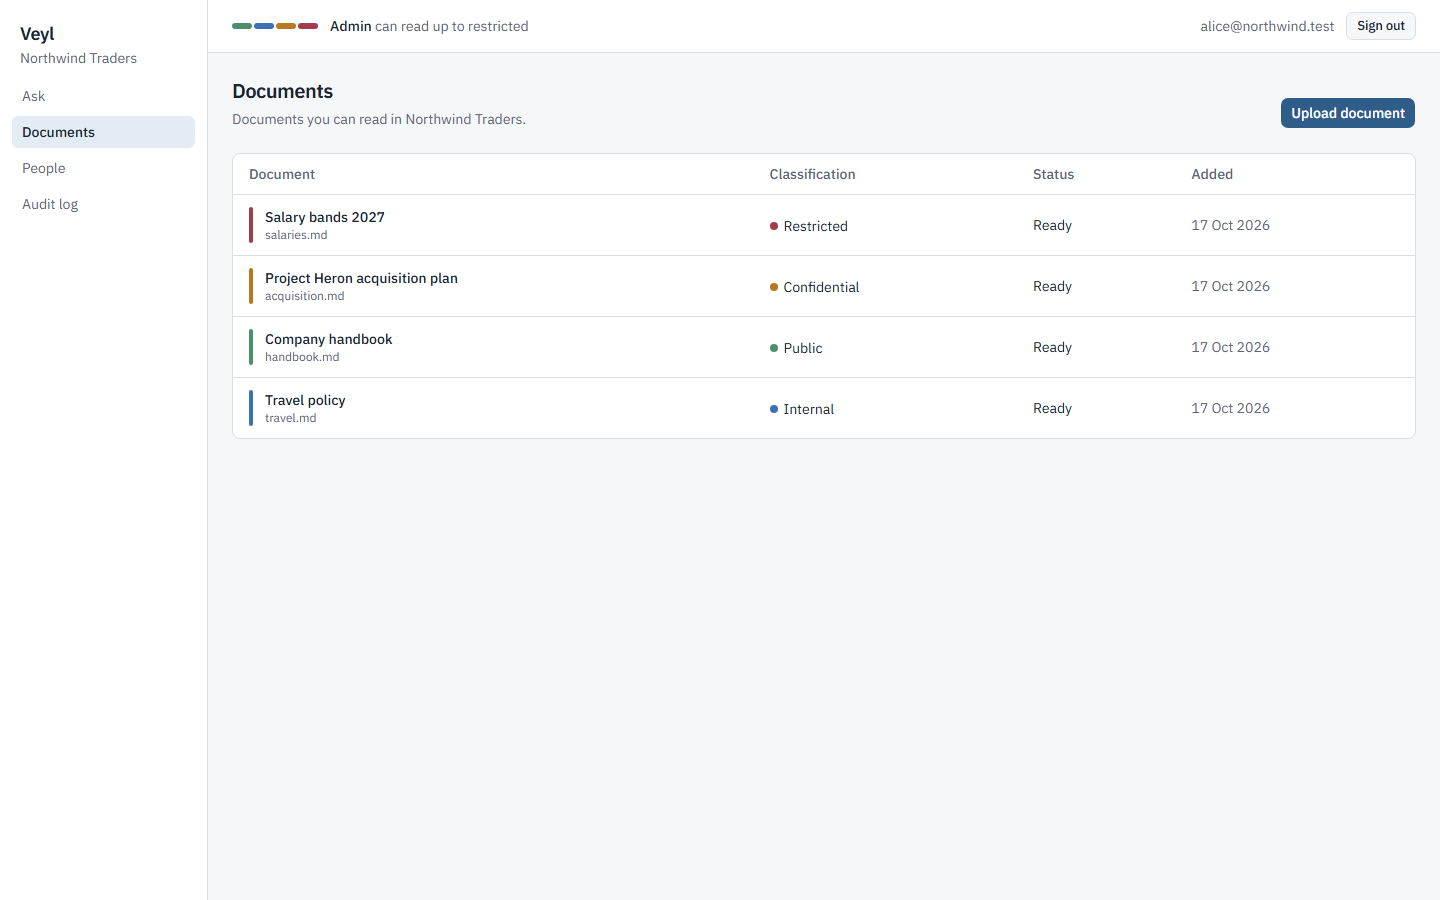
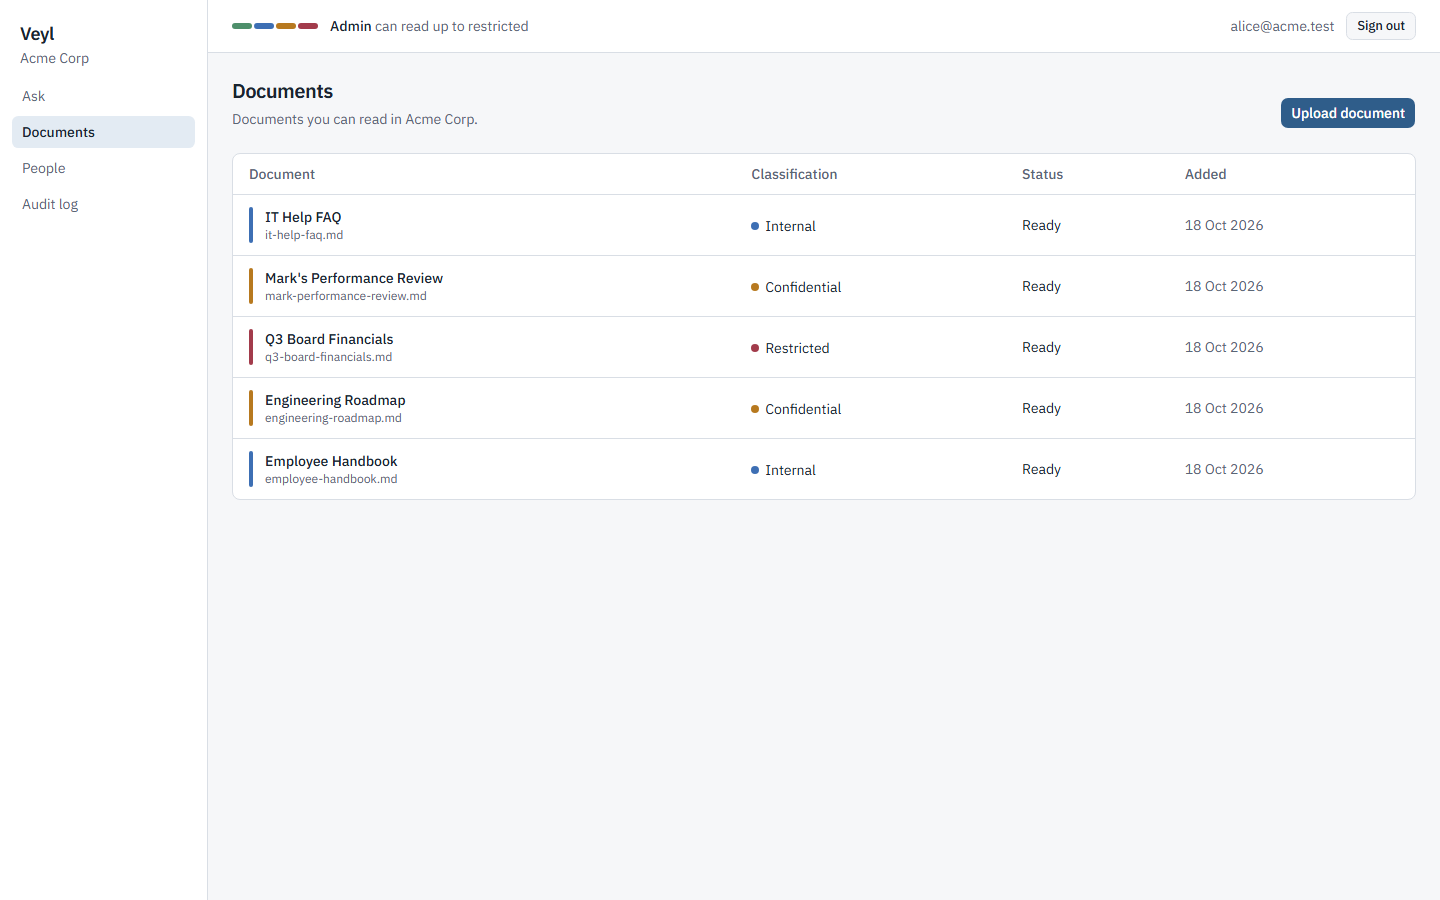
docs: demo screenshots from the real model; screenshot script captures settled pages

diff --git a/README.md b/README.md
@@ -10,7 +10,7 @@ It runs entirely on free tiers: local embeddings (bge-small via fastembed) and a
 
 | Ask, with sources | The same question from a member |
 |---|---|
-| ![An admin's answer citing the restricted board financials](docs/screenshots/ask.png) | ![A member gets "nothing found"; the model is never called](docs/screenshots/member-ask.png) |
+| ![An admin's answer citing the restricted board financials](docs/screenshots/ask.png) | ![A member asking the same question gets no figures and no citation](docs/screenshots/member-ask.png) |
 
 ## What it guarantees
 
@@ -59,11 +59,11 @@ All ports bind to `127.0.0.1` only.
 
 | Sign in | Documents for an admin |
 |---|---|
-| ![Sign-in page with the four classification levels](docs/screenshots/login.png) | ![Documents, one per classification level](docs/screenshots/documents.png) |
+| ![Sign-in page with the four classification levels](docs/screenshots/login.png) | ![Acme's five documents with their classification bands](docs/screenshots/documents.png) |
 
 | The same list for a member | Who can read a document |
 |---|---|
-| ![Only the public and internal documents](docs/screenshots/member-documents.png) | ![Permission editor with classification, roles, and people](docs/screenshots/document.png) |
+| ![Only the two internal documents](docs/screenshots/member-documents.png) | ![Permission editor with classification, roles, and people](docs/screenshots/document.png) |
 
 | People (admin) | Audit log (admin) |
 |---|---|

diff --git a/docs/devlog.md b/docs/devlog.md
@@ -10,6 +10,8 @@ Newest entries first. Each entry: what was done, what's next, anything blocked.
 
 **Bug found and fixed** — Alice's and Mark's answers lost their citations: the model wrote markers as CJK lenticular brackets (`【S1】`, sometimes `【S2†L3-L5】`), which the server did not recognise, so it removed them and returned no source cards. CI could not catch it because the stand-in always writes `[S1]`. The parser now reads `[S1]`, `[S1, S3]`, fullwidth brackets, and lenticular brackets with an optional line reference, and stores `[S#]`. Test RED to GREEN; 319 backend tests.
 
+**Screenshots** — README screenshots retaken from the demo with the real model (admin and member asking the same revenue question, documents, permissions, people, audit log). The screenshot script now asks the browser for reduced motion, so captures show the settled page rather than a frame of an animation (the first capture caught the sign-in levels half faded in).
+
 **Docs correction** — Mia's revenue question does reach the model: her readable IT FAQ mentions "the Q3 financials", so it clears the relevance threshold; the model finds no figures. `demo.md` step 1 now says so.
 
 ## 2026-10-18 — Phase 6, Task 6: documentation
